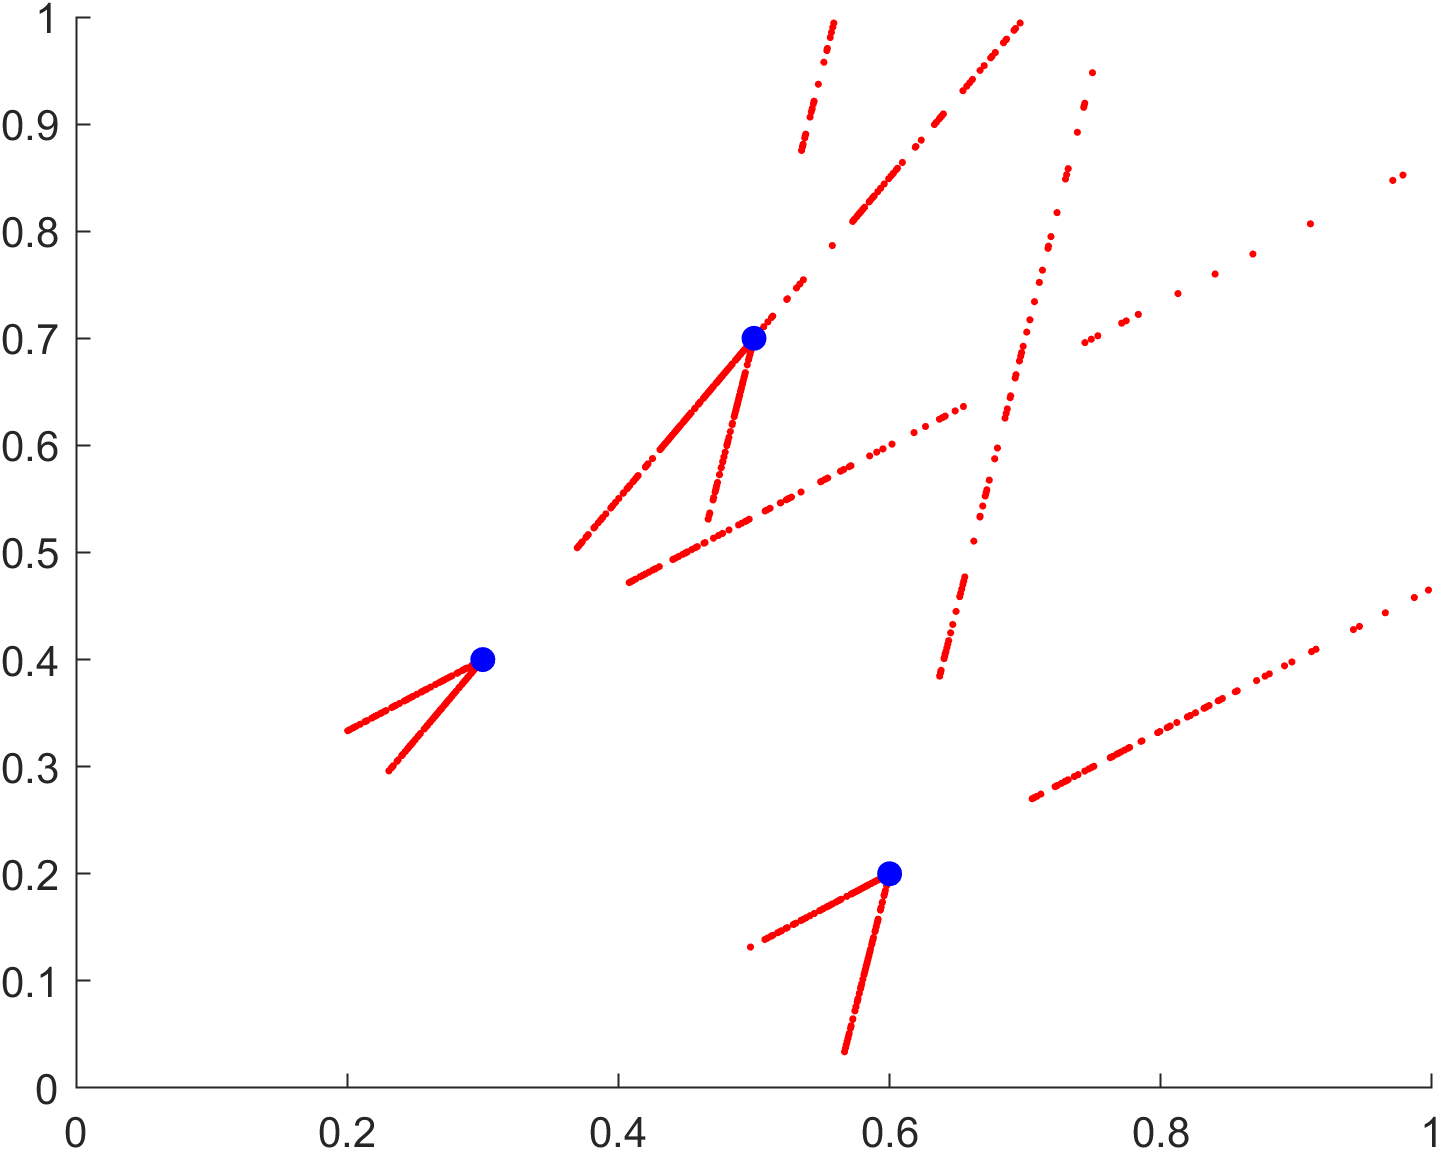
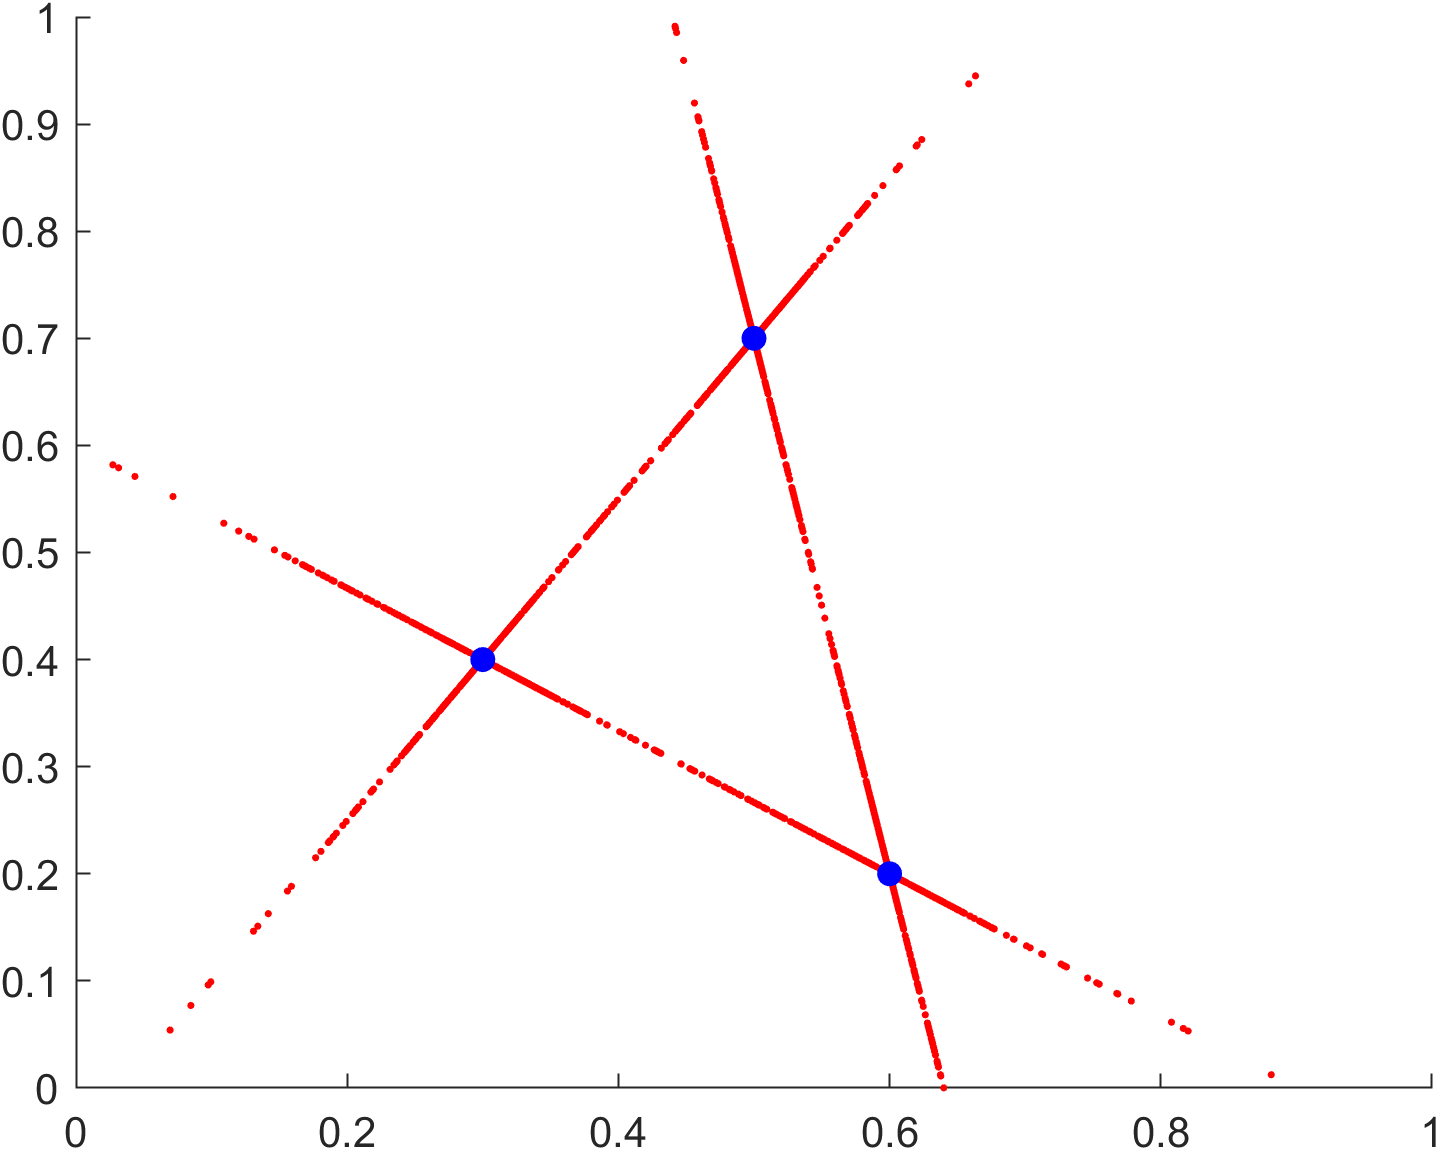
improved laplace

diff --git a/Operators/MyLX.m b/Operators/MyLX.m
@@ -11,7 +11,7 @@ classdef MyLX < XOPERATOR
             if nargin > 2
                 [a,b] = deal(Parameter{:});
             else
-                [a,b] = deal(0,0.5);
+                [a,b] = deal(0,0.2);
             end
 
             if isa(Parentpool(1),'SOLUTION')
@@ -21,17 +21,26 @@ classdef MyLX < XOPERATOR
                 restructure = false;
             end
             
-            Parent1 = Parentpool(1:floor(end/2),:);
-            Parent2 = Parentpool(floor(end/2)+1:floor(end/2)*2,:);
             N = size(Parentpool, 1);
+            if(mod(N,2) == 0)
+                M = N/2;
+                Parent1 = Parentpool(1:M/2,:);
+                Parent2 = Parentpool(M/2+1:end,:);
+            else
+                M = ceil(N/2);
+                Parent1 = [Parentpool(1:M-1,:); Parentpool(randi(N,1,1),:)];
+                Parent2 = Parentpool(M:end,:);                
+            end
+            
 
             %% Offspring Generation
-            u = rand(N,1);
-            beta(u<=0.5) = a - b*reallog(u(u<=0.5));
-            beta(u>0.5) = a + b*reallog(u(u>0.5));
+            u = rand(M,1);
+            f = 1/2;
+            beta(u<=f) = a + b*(reallog(2 * u(u<=f)));
+            beta(u>f) = a - b*(reallog(2 * (1-u(u>f))));
 
-            Offspring = [Parent1 + beta(1:floor(end/2))' .* abs(Parent1-Parent2) % abs(Parent1-Parent2) 
-                Parent2 + beta(floor(end/2)+1:floor(end/2)*2)' .* abs(Parent1-Parent2)]; %abs(Parent1-Parent2) 
+            Offspring = [Parent1 + beta' .* (Parent1-Parent2)
+                Parent2 + beta' .* (Parent1-Parent2)];
 
             if(restructure)
                 Offspring = SOLUTION(Offspring,[], repelem(obj.TAG, N, 1));

diff --git a/VisualizeOperators.m b/VisualizeOperators.m
@@ -2,23 +2,22 @@ close all; clc;
 %% Visualize Operator results
 %% init
 Population = [0.3 0.4; 0.6 0.2; 0.5 0.7];
-
-% Operators = {MyLCX(), MyLX(), MyRSBX(), MySBX()};
-% for operator = Operators
-%     Pop = Population;
-%     f = figure('Name', operator{1}.TAG);
-%     axis([0 1 0 1]);
-%     hold on
-%     for i=1:500
-%         Pop = Pop(randperm(length(Pop)),:);
-%         x = operator{1}.Cross(Pop);
-%         scatter(x(:,1), x(:,2), 3, 'r', 'filled');
-%     end
-%     scatter(Population(:,1), Population(:,2), 'filled', 'b');
-%     hold off
-%     
-%     exportgraphics(f, operator{1}.TAG + '.png','Resolution',300)
-% end
+Operators = {MyLX()};
+for operator = Operators
+    Pop = Population;
+    f = figure('Name', operator{1}.TAG);
+    axis([0 1 0 1]);
+    hold on
+    for i=1:500
+        Pop = Pop(randperm(length(Pop)),:);
+        x = operator{1}.Cross(Pop);
+        scatter(x(:,1), x(:,2), 3, 'r', 'filled');
+    end
+    scatter(Population(:,1), Population(:,2), 'filled', 'b');
+    hold off
+    
+    exportgraphics(f, operator{1}.TAG + '.png','Resolution',300)
+end
 
 Population = [0.3 0.4; 0.6 0.2; 0.5 0.7];
 
@@ -59,7 +58,7 @@ scatter(y(:,1), y(:,2), 3, 's', 'filled');
 scatter(Population(:,1), Population(:,2), 'filled', 'b');
 hold off
 
-exportgraphics(f, Operator.TAG + '.png','Resolution',300)
+%exportgraphics(f, Operator.TAG + '.png','Resolution',300)
 
 
 
